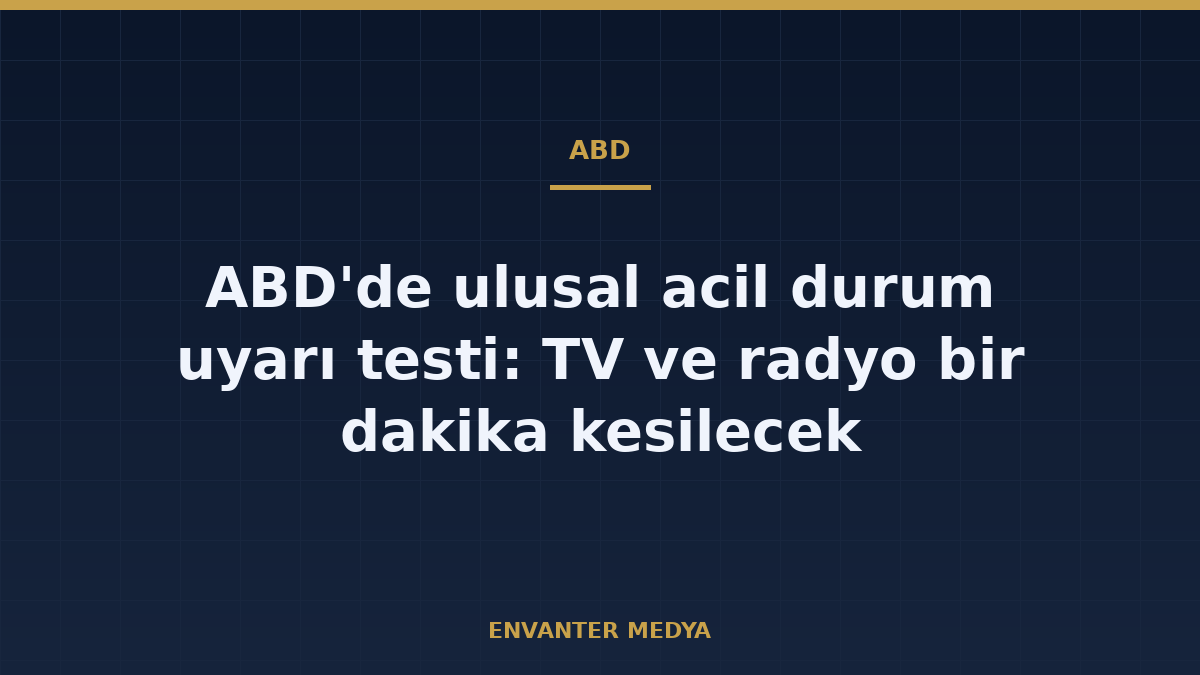
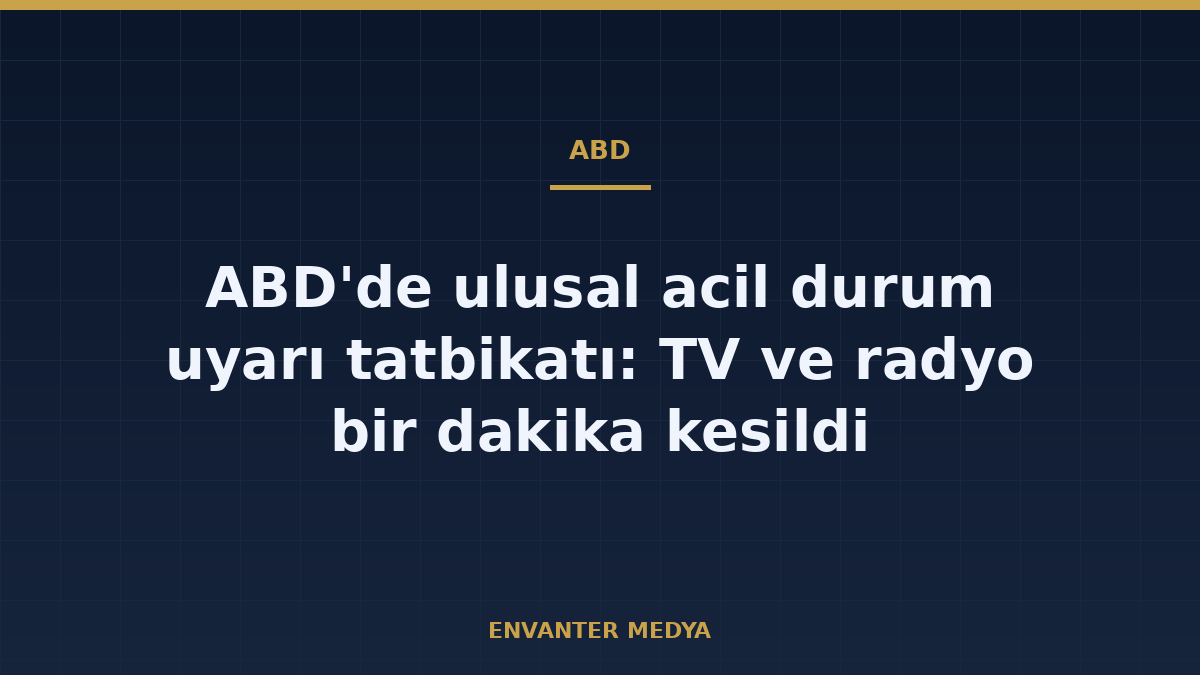
ABD EAS haberi: tatbikat ifadesi, geçmiş zaman, ekran metni notu
Claude-Session: https://claude.ai/code/session_01AWoAGxJxjvq2sBncWaDMYT

Changed region(s): [[0.1233, 0.4978, 0.8633, 0.6844]]

diff --git a/haberler/abd-eas-ulusal-test-2026/icerik.html b/haberler/abd-eas-ulusal-test-2026/icerik.html
@@ -1,16 +1,16 @@
-<p><strong>ABD'de Federal Acil Durum Yönetim Ajansı (FEMA) ile Federal İletişim Komisyonu (FCC), 17 Kasım 2026 Salı günü ülke genelinde Acil Durum Uyarı Sistemi (EAS) testi yapıyor. Test, televizyon, radyo, kablolu ve uydu yayınlarını yaklaşık bir dakika kesecek; cep telefonlarına bildirim gitmeyecek.</strong></p>
+<p><strong>ABD'de Federal Acil Durum Yönetim Ajansı (FEMA) ile Federal İletişim Komisyonu (FCC), 17 Kasım 2026 Salı günü ülke genelinde Acil Durum Uyarı Sistemi (EAS) tatbikatı yaptı. Tatbikat, televizyon, radyo, kablolu ve uydu yayınlarını yaklaşık bir dakika kesti; cep telefonlarına bildirim gitmedi.</strong></p>
 
-<h2>Test ne zaman ve nasıl yapılıyor?</h2>
-<p>Test, doğu saatiyle 14.20'de başlayacak. Bu saat, Türkiye saatiyle 22.20'ye denk geliyor. Yayıncılar normal programı keserek yaklaşık bir dakikalık test mesajını yayınlıyor. Mesaj, yetkililerin aktardığına göre şu içerikte: "Bu, Federal Acil Durum Yönetim Ajansı tarafından yapılan Acil Durum Uyarı Sistemi'nin ulusal bir testidir. Bu yalnızca bir testtir. Halkın herhangi bir işlem yapmasına gerek yoktur." Bazı yayıncılar mesajı İngilizce ve İspanyolca birlikte verebiliyor. İşitme engelliler için mesaja uyarı tonları eşlik ediyor.</p>
+<h2>Tatbikat ne zaman ve nasıl yapıldı?</h2>
+<p>Tatbikat, doğu saatiyle 14.20'de başladı. Bu saat, Türkiye saatiyle 22.20'ye denk geliyor. Yayıncılar normal programı keserek yaklaşık bir dakikalık test mesajını yayınladı. Mesaj, yetkililerin önceden aktardığına göre şu içerikteydi: "Bu, Federal Acil Durum Yönetim Ajansı tarafından yapılan Acil Durum Uyarı Sistemi'nin ulusal bir testidir. Bu yalnızca bir testtir. Halkın herhangi bir işlem yapmasına gerek yoktur." Bazı yayıncılar mesajı İngilizce ve İspanyolca birlikte verebiliyordu; işitme engelliler için mesaja uyarı tonları eşlik etti. Sosyal medyada paylaşılan bir televizyon ekranı görüntüsünde mesajın üç sayfalık bir yazı olarak, "17 Kasım 2026, 14.20'den 14.35'e kadar" ifadesiyle gösterildiği görülüyor; görüntünün kaynağı doğrulanmadı.</p>
 
-<h2>2023'ten farkı: telefonlara bildirim yok</h2>
-<p>Ekim 2023'teki son ulusal testte Kablosuz Acil Durum Uyarıları (WEA) da denenmiş, cep telefonları da çalmıştı. Bu kez yalnızca radyo ve televizyon yayınları test ediliyor. FEMA'nın ifadesiyle "telefonunuz ötmeyecek, titremeyecek ve bildirim almayacak."</p>
+<h2>2023'ten farkı: telefonlara bildirim gitmedi</h2>
+<p>Ekim 2023'teki son ulusal testte Kablosuz Acil Durum Uyarıları (WEA) da denenmiş, cep telefonları da çalmıştı. Bu kez yalnızca radyo ve televizyon yayınları denendi. FEMA'nın ifadesiyle "telefonunuz ötmeyecek, titremeyecek ve bildirim almayacak."</p>
 
 <h2>Neden yapılıyor?</h2>
 <p>Federal yasa, bu tür ulusal testin en az üç yılda bir yapılmasını şart koşuyor. Amaç, sistemin gerçek bir acil durumda kullanılmadan önce teknik ve operasyonel aksaklıklarını bulmak. EAS; radyo, televizyon, kablolu, uydu ve sabit hat video sağlayıcılarından oluşan bir ulusal kamu uyarı sistemi. Sistem üzerinden ABD Başkanı, ulusal bir acil durumda halka doğrudan seslenebiliyor. Aynı uyarı tonu, yerel ve eyalet makamlarının daha dar kapsamlı afet uyarılarında da kullanılıyor.</p>
-<p>FEMA Başkanı Cameron Hamilton, "Bir acil durumda her saniye önemlidir" diyerek testin sorunları gerçek bir olaydan önce tespit edip düzeltmeye yarayacağını söyledi.</p>
+<p>FEMA Başkanı Cameron Hamilton, "Bir acil durumda her saniye önemlidir" diyerek tatbikatın sorunları gerçek bir olaydan önce tespit edip düzeltmeye yarayacağını söyledi.</p>
 
 <h2>Söylentilere yanıt</h2>
-<p>Testin zamanlaması, geçen günlerde bankacılık, havayolu ve bulut hizmetlerini etkileyen bazı büyük kesintilerin ardından sosyal medyada çeşitli iddialara yol açtı. FEMA, testin rutin olduğunu ve bu kesintilerle ilgisi bulunmadığını belirtti; kurum, "gizli bir acil durum yaşanmıyor" mesajı verdi. Gerçek bir acil durum ya da ciddi hava olayı yaşanırsa testin ertelenebileceği de duyurulmuştu.</p>
+<p>Tatbikatın zamanlaması, geçen günlerde bankacılık, havayolu ve bulut hizmetlerini etkileyen bazı büyük kesintilerin ardından sosyal medyada çeşitli iddialara yol açtı. FEMA, tatbikatın rutin olduğunu ve bu kesintilerle ilgisi bulunmadığını belirtti; kurum, "gizli bir acil durum yaşanmıyor" mesajı verdi. Gerçek bir acil durum ya da ciddi hava olayı yaşanırsa ertelenebileceği de önceden duyurulmuştu.</p>
 
 <p><em>Kaynaklar: WRAL.com / Associated Press (17 Kasım 2026); NBC News.</em></p>

diff --git a/haberler/abd-eas-ulusal-test-2026/en/icerik.html b/haberler/abd-eas-ulusal-test-2026/en/icerik.html
@@ -1,16 +1,16 @@
-<p><strong>The Federal Emergency Management Agency (FEMA) and the Federal Communications Commission (FCC) are conducting a nationwide test of the Emergency Alert System (EAS) on Tuesday, November 17, 2026. The test will interrupt television, radio, cable and satellite programming for about one minute; phones will not receive an alert.</strong></p>
+<p><strong>The Federal Emergency Management Agency (FEMA) and the Federal Communications Commission (FCC) conducted a nationwide test of the Emergency Alert System (EAS) on Tuesday, November 17, 2026. The test interrupted television, radio, cable and satellite programming for about one minute; phones did not receive an alert.</strong></p>
 
-<h2>When and how the test runs</h2>
-<p>The test is scheduled for 2:20 p.m. Eastern (22:20 in Türkiye). Broadcasters interrupt regular programming to play a message of roughly one minute. According to officials, it reads: "This is a nationwide test of the Emergency Alert System, issued by the Federal Emergency Management Agency. This is only a test. No action is required by the public." Some broadcasters may carry it in both English and Spanish, and alert tones accompany the message for viewers and listeners who are deaf or hard of hearing.</p>
+<h2>When and how the test ran</h2>
+<p>The test began at 2:20 p.m. Eastern (22:20 in Türkiye). Broadcasters interrupted regular programming to play a message of roughly one minute. According to officials beforehand, it read: "This is a nationwide test of the Emergency Alert System, issued by the Federal Emergency Management Agency. This is only a test. No action is required by the public." Some broadcasters could carry it in both English and Spanish, and alert tones accompanied the message for viewers and listeners who are deaf or hard of hearing. A photo of a TV screen shared on social media shows the message as a three-page on-screen text covering "2:20 PM NOV 17, 2026 to 2:35 PM"; the photo's origin has not been verified.</p>
 
 <h2>What differs from 2023: no phone alerts</h2>
-<p>The last nationwide test, in October 2023, also included Wireless Emergency Alerts, so phones sounded too. This time only radio and television are involved. In FEMA's words, "your cell phone will not beep, buzz or receive a notification."</p>
+<p>The last nationwide test, in October 2023, also included Wireless Emergency Alerts, so phones sounded too. This time only radio and television were involved. In FEMA's words, "your cell phone will not beep, buzz or receive a notification."</p>
 
-<h2>Why it is being held</h2>
+<h2>Why it was held</h2>
 <p>Federal law requires a test of this kind at least once every three years. It lets officials find technical or operational problems before the system is needed in a real emergency. The EAS is a national public warning system made up of radio, TV, cable, satellite and wireline video providers, and through it the president can address the public during a national emergency. The same tones are used by local, state and tribal authorities for more localized alerts.</p>
-<p>FEMA Administrator Cameron Hamilton said that "during an emergency, every second is crucial," and that the test will help identify and fix issues before a real event.</p>
+<p>FEMA Administrator Cameron Hamilton said that "during an emergency, every second is crucial," and that the test would help identify and fix issues before a real event.</p>
 
 <h2>Answering the rumors</h2>
-<p>The timing sparked speculation online after several large outages hit banking, airline and cloud services in recent days. FEMA said the test is routine and unrelated to those disruptions, adding that there is no secret emergency. It had also noted that the test could be postponed if a real emergency or significant weather event occurred.</p>
+<p>The timing sparked speculation online after several large outages hit banking, airline and cloud services in recent days. FEMA said the test was routine and unrelated to those disruptions, adding that there was no secret emergency. It had also noted that the test could be postponed if a real emergency or significant weather event occurred.</p>
 
 <p><em>Sources: WRAL.com / Associated Press (Nov. 17, 2026); NBC News.</em></p>
